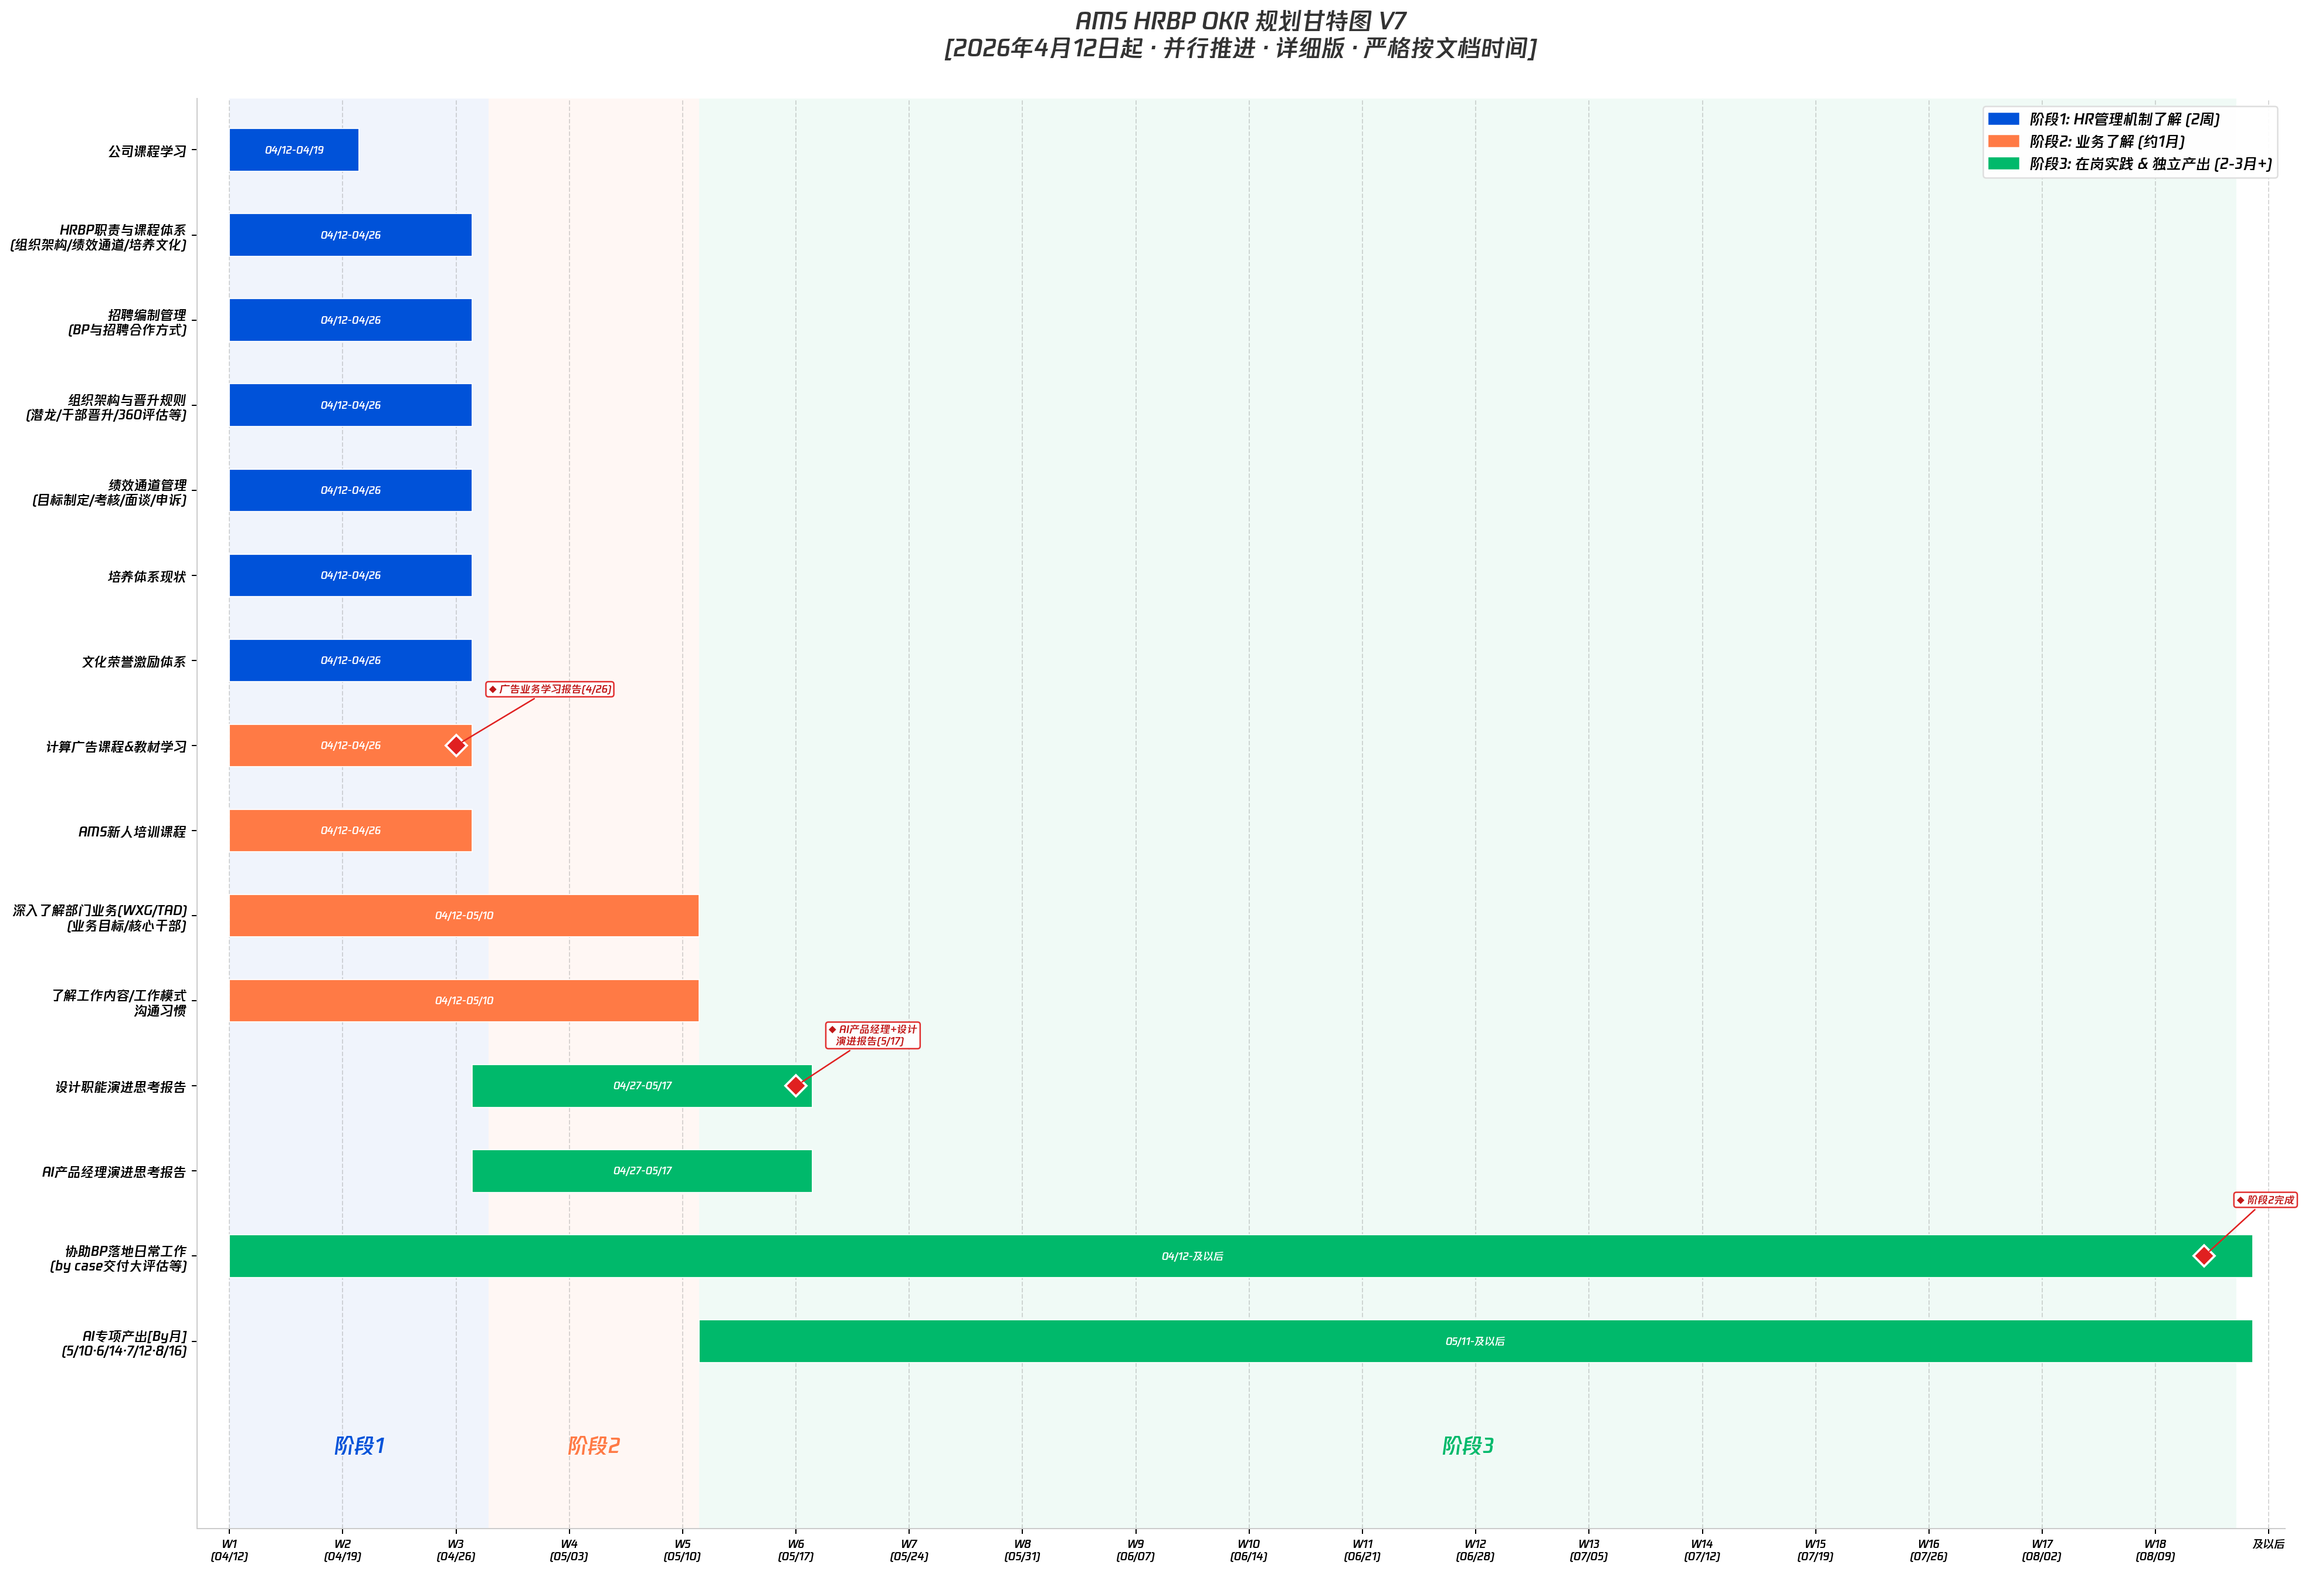
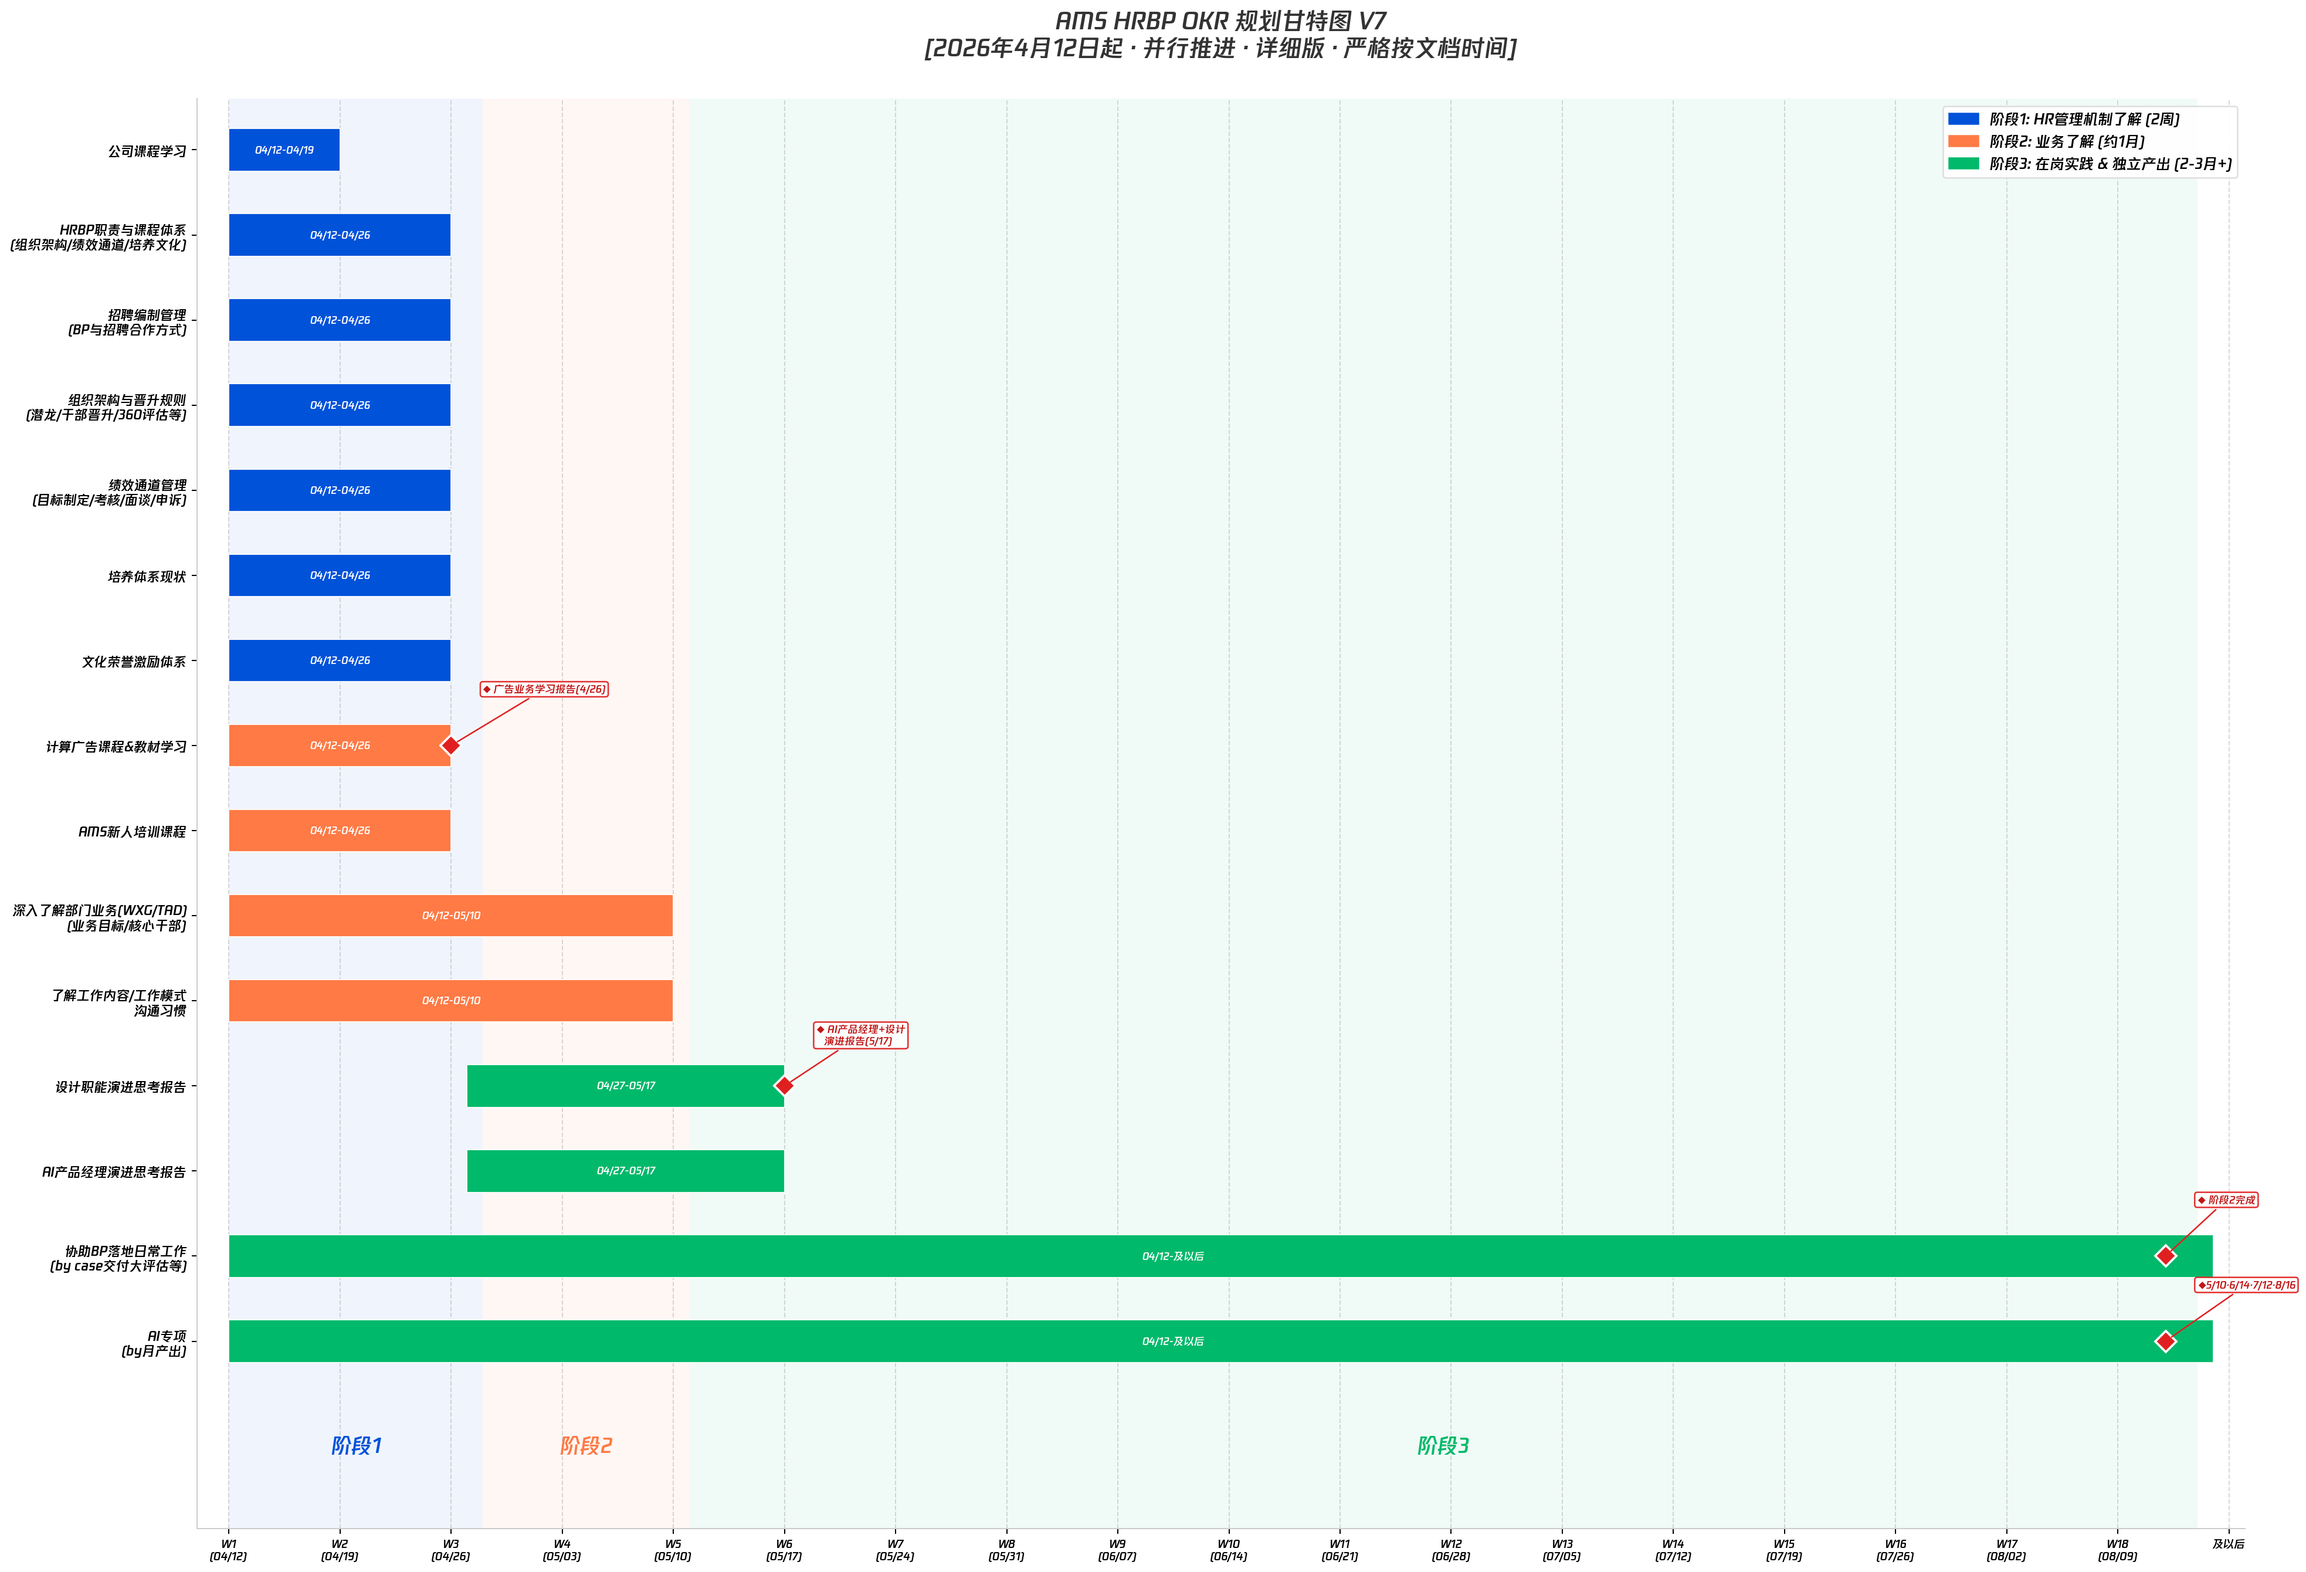
fix: 条形精确到结束日期(无延伸)+AI专项改为从4/12起+by月交付节点

diff --git a/gantt_v7.py b/gantt_v7.py
@@ -53,8 +53,9 @@ tasks_raw = [
     # Row 12: 协助BP — 无固定结束时间
     ("协助BP落地日常工作\n(by case交付大评估等)", "2026-04-12", None, "#00B96B",
      "◆ 阶段2完成"),
-    # Row 13: AI专项 — by月产出，无固定结束
-    ("AI专项产出[By月]\n(5/10·6/14·7/12·8/16)", "2026-05-11", None, "#00B96B", None),
+    # Row 13: AI专项 — 从4/12至结束，by月交付节点
+    ("AI专项\n(by月产出)", "2026-04-12", None, "#00B96B",
+     "◆5/10·6/14·7/12·8/16"),
 ]
 
 # 解析 + 按**结束日期升序**排列（先完成的前面 = index小 = 图上方）
@@ -89,10 +90,8 @@ for i, (name, start, end, color, milestone) in enumerate(tasks):
     left = (start - plot_start).days
 
     if end is not None:
-        width = (end - start).days + 1
-        # 截断到显示范围之外一点，让条形能延伸出去
-        if left + width > total_display_days + 2:
-            width = total_display_days + 6 - left  # 延伸到"及以后"区域
+        # 精确到结束日期，不延伸
+        width = (end - start).days  # 精确天数，不加+1
         bar_color = color
     else:
         # 无固定结束 → 延伸到 X 轴右侧尽头
